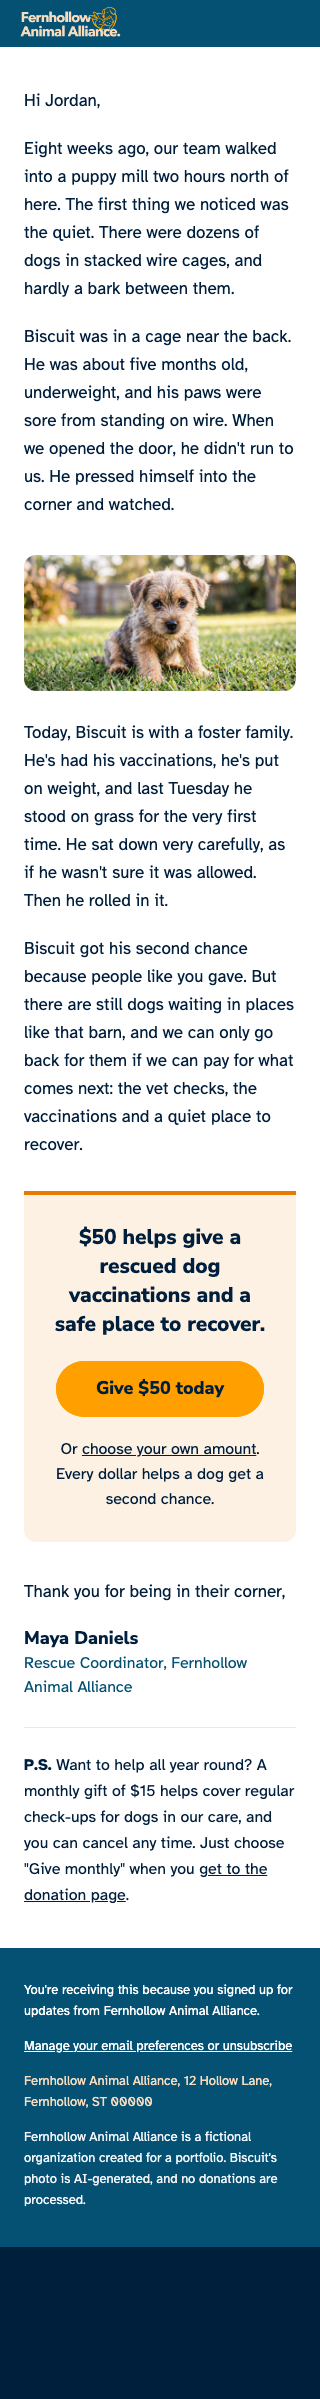
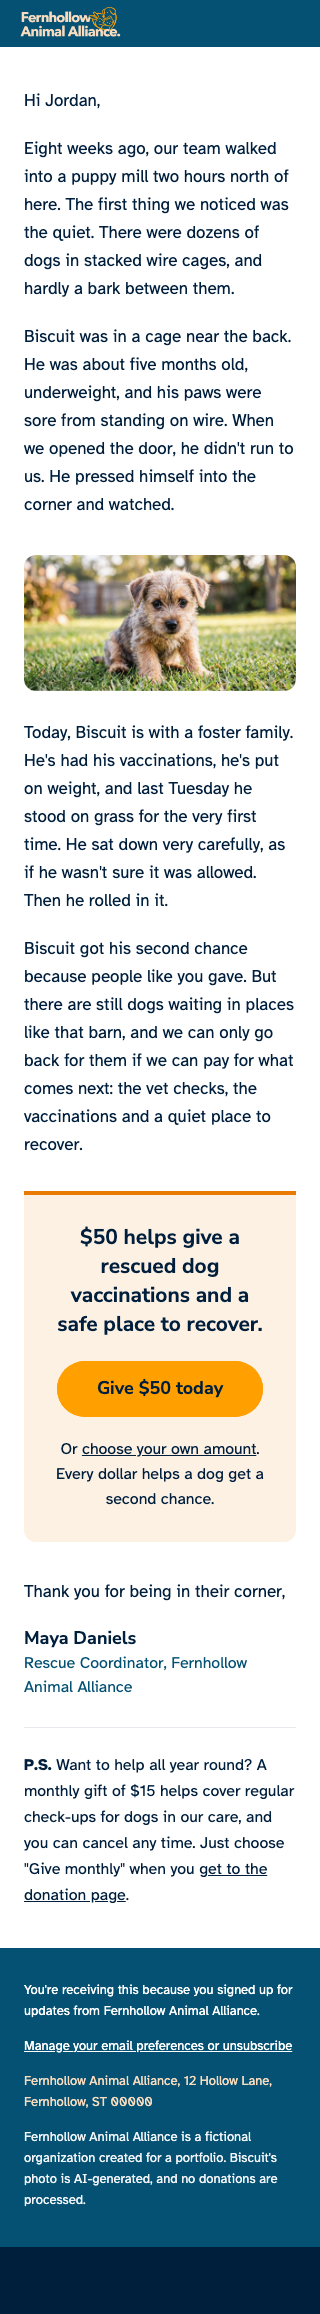
Add the README
- What the emails are, how the build works, and how to set them up in
  Engaging Networks, with every merge field's source
- Testing table with proof links, including classic Outlook before and
  after the fix and VoiceOver in Apple Mail and Safari
- How I worked with AI, in my own words
- Browser screenshots retaken with the new photos
- NOTES.md: lines corrected to say exactly who did what

diff --git a/README.md b/README.md
@@ -1,0 +1,185 @@
+# Fernhollow Animal Alliance: appeal and receipt emails
+
+Two emails for a fictional animal charity, written in MJML and built for Engaging Networks: a fundraising appeal and the receipt a donor gets after giving. They go with the [Second Chances donation page](https://shadelourens.github.io/fernhollow-portfolio/).
+
+**[See the previews and screenshots](https://shadelourens.github.io/fernhollow-emails/)**
+
+Built by **Shade Lourens** · [LinkedIn](https://www.linkedin.com/in/shadelourens)
+
+> Fernhollow Animal Alliance is fictional, created for this portfolio. No donations are processed.
+
+<p>
+  <img src="screenshots/browser-appeal-600.png" alt="The appeal email: Biscuit's story, his photo, and a $50 ask in a cream box with an amber button" width="380">
+  <img src="screenshots/browser-receipt-600.png" alt="The receipt email: a thank-you, Biscuit asleep on a sofa, and the receipt details in a cream box" width="380">
+</p>
+
+- **Ready to paste into Engaging Networks**, with editable blocks and a locked header and footer.
+- **Tested in classic Outlook on Windows**, including a bug found in testing and fixed ([before](screenshots/inbox-appeal-outlook-windows-light-before-fix.png) and [after](screenshots/inbox-appeal-outlook-windows-light.png)).
+- **Build checks that stop broken merge fields** before anything is saved.
+
+## What's in it
+
+1. **The appeal:** a marketing email telling Biscuit's story, with a $50 ask, A/B subject lines, three tracked links to the donation page and an unsubscribe link.
+2. **The receipt:** a transactional email that's only about the gift: the amount, date and reference, a tax note, and how to change or cancel a monthly gift. No unsubscribe link and no marketing links, because receipts aren't marketing.
+
+Each email comes in two versions:
+
+- an **Engaging Networks version** with merge fields like `{user_data~First Name~Friend}`, ready to paste into the platform
+- a **preview** with sample data ("Hi Jordan"), for test sends and the screenshots.
+
+Both also have a **plain-text version**, written by hand with the same words and every link written out in full.
+
+## How it's built
+
+```
+npm install
+npm run build
+```
+
+The emails are written in [MJML](https://mjml.io), which turns simple tags into the table-based HTML email apps need. MJML is the only dependency. `build.js` then:
+
+1. turns `src/appeal.mjml` and `src/receipt.mjml` into `dist/appeal.html` and `dist/receipt.html` (the Engaging Networks versions)
+2. makes the previews by swapping each merge field for sample data, for both the HTML and the plain text
+3. checks the merge fields **before saving anything**: every field must be there and written exactly right, any field that isn't on the list fails as a likely typo, and none can be left in the previews
+4. prints each file's size and warns above 100KB, because Gmail cuts off emails bigger than about 102KB. The appeal is 26.9KB and the receipt 21.8KB.
+
+If a check fails, the build stops and says what's wrong in plain words. The checks were tested by breaking a copy of the project on purpose: a typo, a changed ID and an unlisted field each stopped the build.
+
+The header, footer and shared styles live in `src/layout/`, so both emails always match.
+
+## Engaging Networks
+
+### Merge fields
+
+Every field was checked against Engaging Networks' own documentation or an email Engaging Networks built. None were guessed.
+
+| Field                                   | Used in | Source                                                                                         |
+| --------------------------------------- | ------- | ---------------------------------------------------------------------------------------------- |
+| `{user_data~First Name~Friend}`         | both    | an Engaging Networks-built email                                                               |
+| `{preview_text}`                        | both    | EN docs: Preview Text                                                                          |
+| `{unsubscribe_action~ID~URL}`           | appeal  | an Engaging Networks-built email (the docs only describe the "Insert unsubscribe link" button) |
+| `{user_data~Email}`                     | receipt | an Engaging Networks-built email                                                               |
+| `{receipt_data~amount~[en]}`            | receipt | EN docs: Receipt Data Tags                                                                     |
+| `{receipt_data~createdOn~[yyyy-MM-dd]}` | receipt | EN docs: Receipt Data Tags                                                                     |
+| `{receipt_data~txId}`                   | receipt | EN docs: Receipt Data Tags                                                                     |
+
+### Editable blocks
+
+The templates are for Engaging Networks' **Marketing Tools** editor (Email Classic was retired in July 2026). Each text block has the `en__component--textblock` class and each photo `en__component--imageblock`, so an editor can change them. The letter sits in a droppable area, where new blocks can be dragged in, and each group (the story, the photo, the ask) is repeatable.
+
+**The header and footer are locked on purpose.** They have no editable classes, so an editor can't remove the unsubscribe link or the postal address.
+
+### Setting it up in Engaging Networks
+
+- **Subject lines:** set up the appeal's A/B test in EN. A: "Biscuit had never stood on grass". B: "{first name}, can you give a dog a second chance?". The receipt's subject is "Your receipt from Fernhollow Animal Alliance".
+- **Preview Text:** the appeal's is "He was five months old when we found him. Here's what happened next." The receipt's is "Thank you. Biscuit has something to show you."
+- **Unsubscribe:** the template uses a fake ID (`00000`) and a fake address. Point it at the real **subscription management page**, which EN recommends for every unsubscribe link.
+- **Date:** EN's docs only show the `yyyy-MM-dd` format, so that's what the template uses. Choose a US format such as "October 19, 2026" in EN's insert tool, instead of guessing the pattern.
+- **Amount:** EN's docs don't show what the amount field outputs (for example, whether it includes the `$`). Check it with one test donation.
+- **Plain text:** paste in `text/appeal.txt` or `text/receipt.txt`. EN can generate plain text from the HTML, but it doesn't update when the HTML changes later, and a hand-written version means the wording and the order of the links are chosen, not generated. EN's docs don't say how a field like `{unsubscribe_action}` comes out in plain text, so check it with one test send.
+- **Monthly gifts:** EN's thank-you emails don't attach a receipt for recurring gifts. So the receipt tells monthly donors they'll get one yearly receipt each January, and how to change or cancel.
+
+### Tracking links
+
+Each link to the donation page has UTM tags with its own `utm_content` (`give-50-button`, `own-amount-link`, `ps-link`), so reports show which link was clicked.
+
+In a real setup, the donation page would be an Engaging Networks page. Then each link would also be wrapped in `{campaignpage_url~ID~URL~Give_50_button}` and carry `en_og_source`, EN's Origin Source, which records where a new supporter came from. I left both out here because they only work on EN pages, and Origin Source codes must already exist in the account. My donation page is on GitHub Pages.
+
+## Testing
+
+| Where                                      | Appeal                                                                                                                                                                                                                                                                                  | Receipt                                                                                                                                                                                                  |
+| ------------------------------------------ | --------------------------------------------------------------------------------------------------------------------------------------------------------------------------------------------------------------------------------------------------------------------------------------- | -------------------------------------------------------------------------------------------------------------------------------------------------------------------------------------------------------- |
+| Browser                                    | [600px](screenshots/browser-appeal-600.png) · [320px phone](screenshots/browser-appeal-320.png) · [images off](screenshots/browser-appeal-images-off.png)                                                                                                                               | [600px](screenshots/browser-receipt-600.png) · [320px phone](screenshots/browser-receipt-320.png) · [images off](screenshots/browser-receipt-images-off.png)                                             |
+| Gmail                                      | [web](screenshots/inbox-appeal-gmail-web.png) · [iPhone app](screenshots/inbox-appeal-gmail-app-light.png) · [dark mode](screenshots/inbox-appeal-gmail-app-dark-bottom.png)                                                                                                            | [iPhone app](screenshots/inbox-receipt-gmail-app-light-bottom.png) · [dark mode](screenshots/inbox-receipt-gmail-app-dark-bottom.png) · [images off](screenshots/inbox-receipt-gmail-app-images-off.png) |
+| Apple Mail                                 | [Mac](screenshots/inbox-appeal-apple-mail-mac-light.png) · [Mac, images off](screenshots/inbox-appeal-apple-mail-mac-images-off.png) · [iPhone](screenshots/inbox-appeal-apple-mail-iphone-light.png) · [iPhone, dark mode](screenshots/inbox-appeal-apple-mail-iphone-dark-bottom.png) | Not tested (same layout as the appeal) |
+| Outlook.com                                | [light](screenshots/inbox-appeal-outlook-web-light.png) · [dark mode](screenshots/inbox-appeal-outlook-web-dark-bottom.png) · [images off](screenshots/inbox-appeal-outlook-web-images-off.png)                                                                                         | [light](screenshots/inbox-receipt-outlook-web-light.png)                                                                                                                                                 |
+| Classic Outlook on Windows (Microsoft 365) | [light](screenshots/inbox-appeal-outlook-windows-light.png) · [dark mode](screenshots/inbox-appeal-outlook-windows-dark.png) · [before the fix](screenshots/inbox-appeal-outlook-windows-light-before-fix.png)                                                                          | [light](screenshots/inbox-receipt-outlook-windows-light.png) · [dark mode](screenshots/inbox-receipt-outlook-windows-dark.png)                                                                           |
+| Screen reader (VoiceOver on a Mac)         | Apple Mail and Safari: reads in the right order, and the button opens the donation page                                                                                                                                                                                                 | Safari: reads in the right order                                                                                                                                                                         |
+
+I sent the test emails from a Mailgun sandbox and tested classic Outlook with Email on Acid (now part of Mailgun as Mailgun Inspect).
+
+### What testing found
+
+- **Classic Outlook cropped both photos and the header to a thin strip.** The images sat in text blocks with a 28px line height, and classic Outlook cuts an image to the line height around it. Giving the image blocks a normal line height fixed it.
+- **The $50 heading and the button showed in Arial Black in classic Outlook.** Outlook uses Arial instead of Nunito Sans, and on Windows, Arial at weight 800 turns into Arial Black. Headings and the button now use weight 700.
+- **Email on Acid's accessibility check** asked for a level-one heading, so the header logo is now the `<h1>`, and the $50 line and "Your receipt" are `<h2>`s. The one note left is the button's missing underline. That's on purpose: it's a filled button, so it clearly looks clickable.
+- **"Missing SSL certificate" on the unsubscribe link** was a false alarm. The address was checked, and its HTTPS works.
+- **Spam checks passed everywhere except Yahoo.** Yahoo's filter looks at the sender's reputation and email authentication, which a Mailgun sandbox doesn't have, rather than the content.
+- **Dark mode:** Apple Mail keeps the design as it is. Gmail, Outlook.com and classic Outlook darken it themselves, and the button turns dark orange with light text, which is still readable. The header looks the same everywhere, because the logo and its teal are one image.
+- **Outlook.com only shows the navy background when the reading pane is wider than the email.** In a narrow pane there's no room for it. That's not a bug.
+- **Gmail turns the donor's email address into a link**, and with images off it shows an empty frame for the photo instead of its alt text. Neither breaks anything.
+- **VoiceOver reads the appeal in the right order** in Apple Mail and Safari: the email's name ("Biscuit had never stood on grass"), then "heading level 1, Fernhollow Animal Alliance, image", the first two paragraphs, Biscuit's photo with its alt text, and the rest. The "Give $50 today" button opens the donation page. In Apple Mail, step into the email first (VO + Shift + Down Arrow), then move through it with VO + Right Arrow. The receipt also reads in the right order in Safari.
+
+### Test sends
+
+I ran every test send myself. The Mailgun key only ever lives in an environment variable on my computer, and `read -s` keeps it off the screen and out of the terminal history. This is for zsh, the Mac's default shell. In bash, the first line is `read -s -p "Mailgun key: " MAILGUN_API_KEY && export MAILGUN_API_KEY`.
+
+```bash
+read -s "MAILGUN_API_KEY?Mailgun key: " && export MAILGUN_API_KEY
+
+curl -s --user "api:$MAILGUN_API_KEY" \
+  https://api.mailgun.net/v3/YOUR-SANDBOX-DOMAIN/messages \
+  -F from="Maya at Fernhollow <postmaster@YOUR-SANDBOX-DOMAIN>" \
+  -F to="YOUR-TEST-INBOX" \
+  -F subject="Biscuit had never stood on grass" \
+  -F html="<dist/appeal-preview.html" \
+  -F text="<dist/appeal-preview.txt"
+```
+
+The `<` sends what's inside each file, so the HTML and the plain text go in the same email, the way real platforms send. Email apps that can't show HTML fall back to the text.
+
+## Accessibility
+
+- `lang="en"`, a `<title>`, a hidden preheader, and real headings: the logo is the `<h1>`, and the $50 line and "Your receipt" are `<h2>`s.
+- Every image has alt text. The header's alt text is styled in peach on teal, so it still reads like a heading when images are blocked.
+- Real text everywhere, apart from the logo.
+- Body text is 16px or larger, and footer text 13px or larger.
+- Every text color pair is at least 6.6:1 contrast, well above the 4.5:1 minimum. Orange is only used for lines, never text.
+- Links are underlined and say where they go, apart from the button.
+- Works on a 320px phone, and every email has a plain-text version.
+- Tested with VoiceOver: both emails read in the right order, and the button can be reached and used.
+
+## Decisions worth mentioning
+
+- **The logo and its teal background are one image**, so no email app can change one color and not the other in dark mode.
+- **Images are written by hand inside text blocks.** MJML's image tag fixes the height in pixels, which squashes photos on phones. Width and height are still set, for Outlook.
+- **Photos are twice the size they're shown at and under 200KB**, so they're sharp without slowing the email down.
+- **The receipt says "receipt" in the subject**, because donors search their inbox for it at tax time. It uses US wording: "a 501(c)(3) nonprofit organization" and "No goods or services were provided in exchange for your gift."
+- **The preview's unsubscribe link goes to [a short note](https://shadelourens.github.io/fernhollow-emails/#unsubscribe)** explaining the demo, instead of linking nowhere.
+- **Fake IDs and reserved `.example` addresses** (`act.fernhollow.example`, `donors@fernhollow.example`), so nothing points at a real organization.
+
+## How I worked with AI
+
+Claude Code wrote the plans and the code. Before approving anything, I had a separate Claude conversation review each plan, then decided what to accept, change or reject. For example, I kept the header as one image instead of splitting it, chose to verify every merge field in EN's docs rather than guess, and held back the US date format because EN's docs didn't confirm it. I ran every test myself: test sends, inbox screenshots and Email on Acid, which is where I found the classic Outlook crop.
+
+The commits are co-authored with Claude, so the history shows how the work was done. [`NOTES.md`](NOTES.md) records what I asked for and why I made each decision, and [`CLAUDE.md`](CLAUDE.md) holds the project rules I gave Claude Code.
+
+## What I'd do next
+
+- **Connect a real Engaging Networks account** to confirm how the amount, the date and the plain-text fields come out.
+- **Send from an authenticated domain** instead of the sandbox, which should fix the Yahoo spam result.
+- **Run the A/B subject test with real sends** and compare the open and click rates.
+
+## Files
+
+```
+src/
+  layout/          shared head and styles, header and footer
+  appeal.mjml      email 1
+  receipt.mjml     email 2
+text/              plain-text versions, written by hand
+build.js           builds both emails and checks the results
+dist/              built HTML and previews (generated, never edited by hand)
+assets/            header image and Biscuit's photos
+screenshots/       browser and inbox screenshots
+index.html         the project page on GitHub Pages
+NOTES.md           my working notes
+CLAUDE.md          project rules for Claude Code
+```
+
+## Credits
+
+- [MJML](https://mjml.io), under the MIT License.
+- Fonts: [Nunito Sans](https://fonts.google.com/specimen/Nunito+Sans) and [Atkinson Hyperlegible](https://www.brailleinstitute.org/freefont/), both under the SIL Open Font License.
+- Biscuit's photos: AI-generated with Google Gemini, so the emails don't use a real charity's photos or a real animal. Biscuit, like Fernhollow, is fictional.
+- Test sends with [Mailgun](https://www.mailgun.com), and client testing with [Email on Acid](https://www.emailonacid.com).

diff --git a/NOTES.md b/NOTES.md
@@ -52,7 +52,7 @@
 **Tested:**
 
 - `npm run build` passes all merge-field checks, and both files are 26.7KB.
-- Broke a copy of the project on purpose: a typo, a changed ID and an unlisted field each stopped the build with a plain message, and a 144KB file gave the Gmail warning.
+- Claude broke a copy of the project on purpose to test the checks: a typo, a changed ID and an unlisted field each stopped the build with a plain message, and a 144KB file gave the Gmail warning.
 - Looked at it at 600px, at 320px and with images off: the header's alt text shows as peach text on teal.
 - At 320px the logo looks quite small, but it's still readable. For now I'm keeping the logo and its teal background as one image, so dark mode can't change its colors.
 
@@ -106,7 +106,7 @@
 **What I changed:**
 
 - Restyled `index.html` from my design: a white header with the logo, a campaign tag, cards for each email's versions, inbox cards with orange ➜ arrows instead of underlines, and a navy footer.
-- Found EN's real receipt fields on its "Receipt Data Tags" page, so no placeholders were needed: `{receipt_data~amount~[en]}`, `{receipt_data~createdOn~[yyyy-MM-dd]}` and `{receipt_data~txId}`, plus `{user_data~Email}`.
+- Claude found EN's real receipt fields on its "Receipt Data Tags" page, so no placeholders were needed: `{receipt_data~amount~[en]}`, `{receipt_data~createdOn~[yyyy-MM-dd]}` and `{receipt_data~txId}`, plus `{user_data~Email}`.
 - Built `src/receipt.mjml` and `text/receipt.txt`. They reuse the shared header, styles and footer, and the receipt details sit in the same cream box as the appeal's impact box.
 - Added the receipt to `build.js`, so the same merge-field checks run on it. The receipt HTML is 21.7KB.
 - Added Biscuit's sofa photo as `assets/biscuit-sofa.jpg`.
@@ -114,7 +114,7 @@
 
 **Decisions I made:**
 
-- Changed Claude's draft so it works as a real US receipt:
+- Approved changes to Claude's draft, suggested by my reviewer chat, so it works as a real US receipt:
   - "receipt" in the subject, because donors search for it at tax time
   - 501(c)(3) wording instead of "registered charity"
   - a sentence telling monthly donors they get one receipt each January
@@ -160,7 +160,7 @@
 - The retest in classic Outlook (light and dark) shows both emails in full, with normal bold headings.
 - The "heading one" warning is gone. The only accessibility note left is the button's missing underline.
 - Spam: everything passes except Yahoo, which is about the sandbox sender's reputation, not the content.
-- "Missing SSL certificate" on the unsubscribe link is a false alarm. I checked, and its HTTPS works.
+- "Missing SSL certificate" on the unsubscribe link is a false alarm. Claude checked, and its HTTPS works.
 
 **Still to do:**
 
